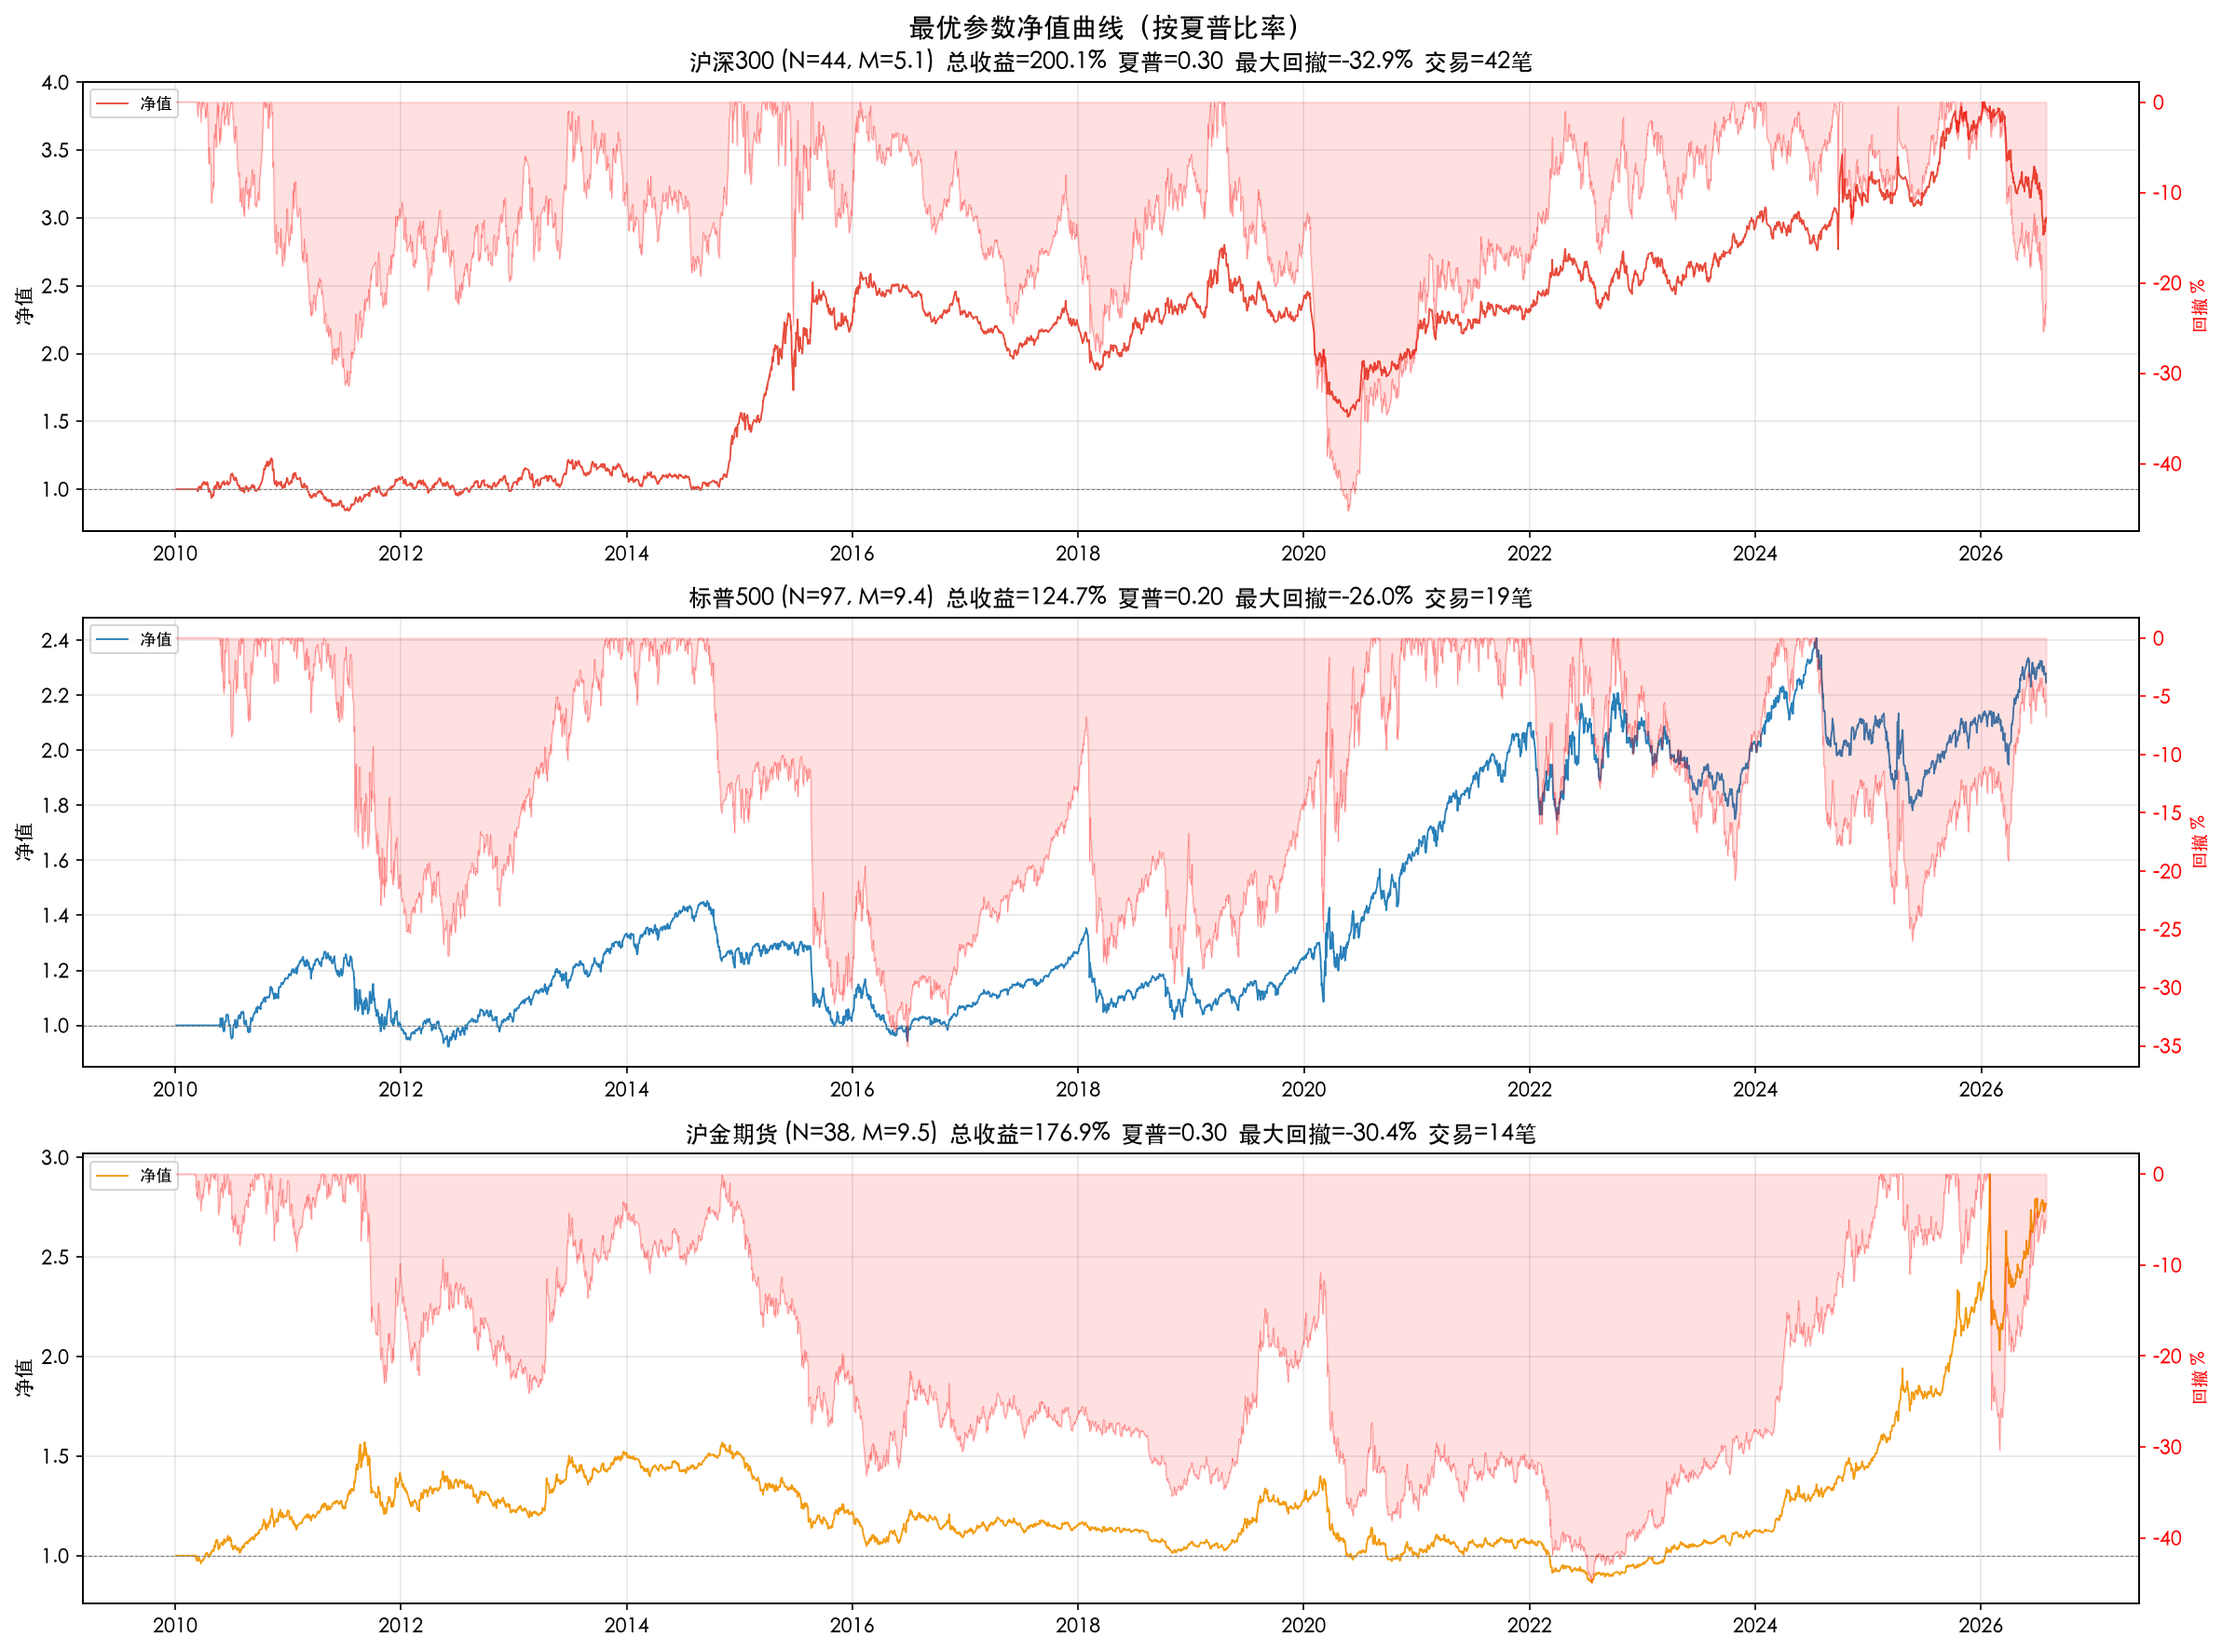
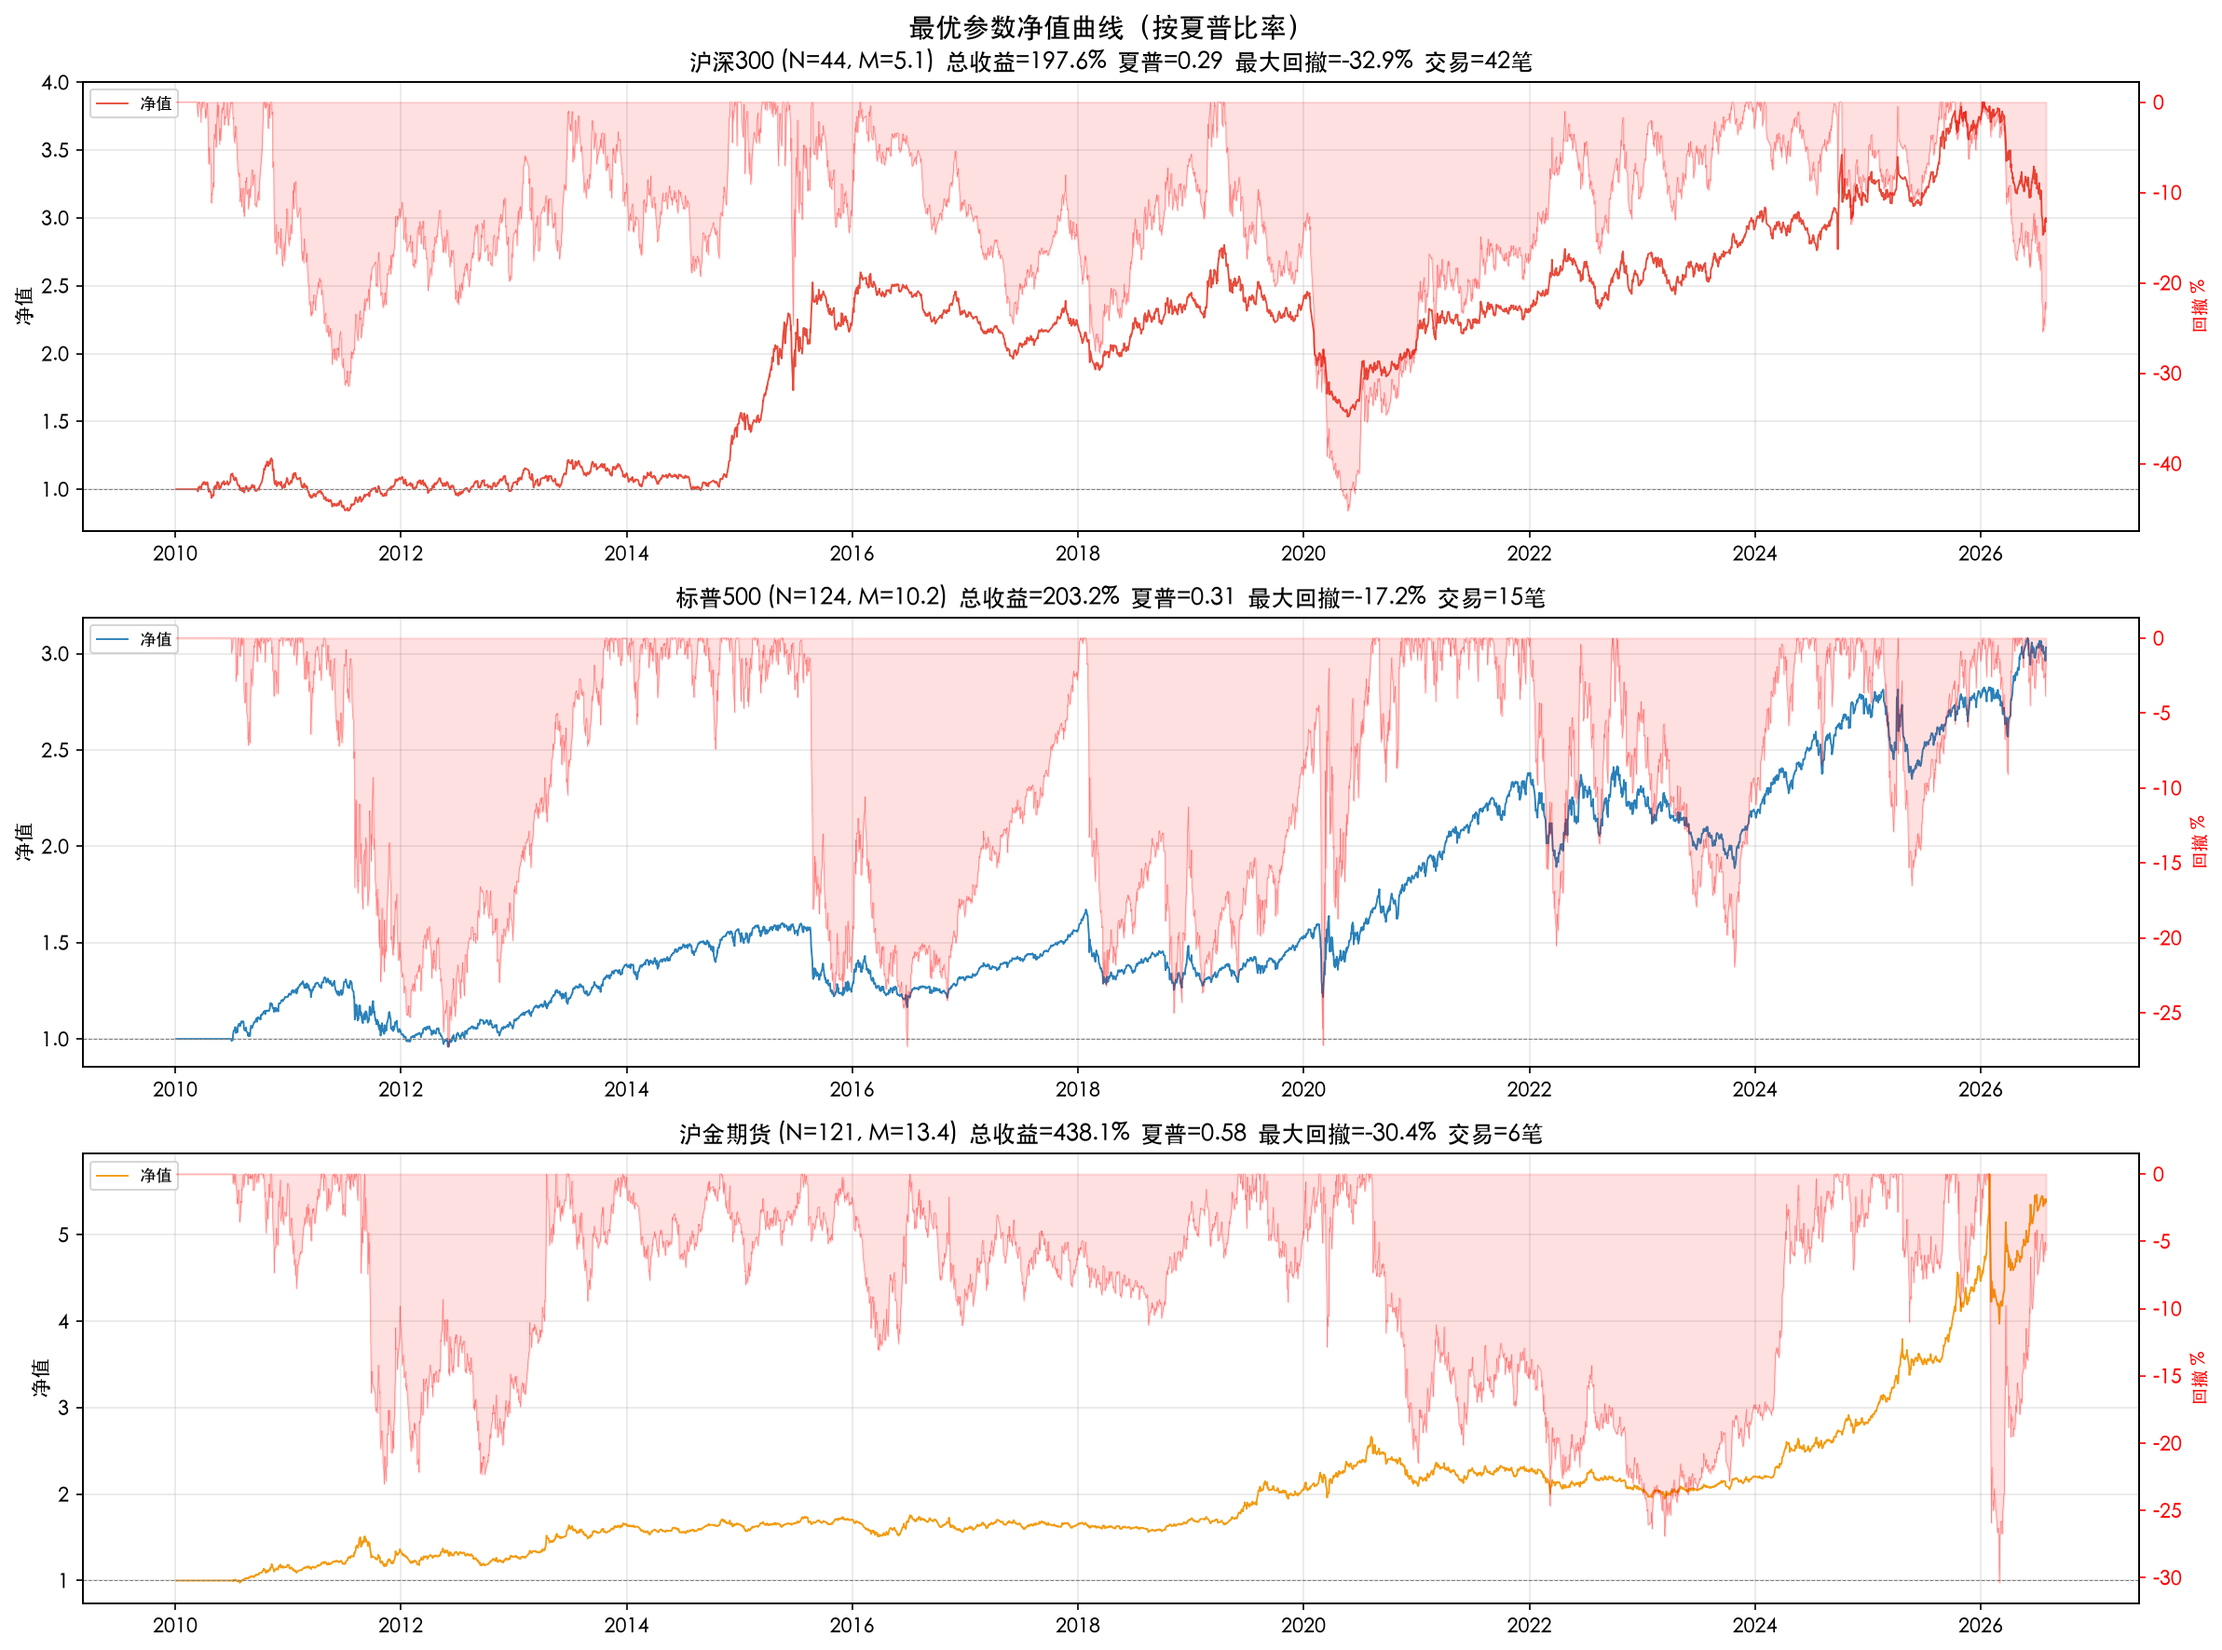
计算更新

diff --git a/optimize.py b/optimize.py
@@ -19,8 +19,8 @@ from tqdm import tqdm
 # ============================================================
 # 搜索范围
 # ============================================================
-PERIODS = list(range(1, 101))                     # 1 ~ 100
-MULTIPLIERS = [round(x * 0.1, 1) for x in range(1, 101)]  # 0.1 ~ 10.0
+PERIODS = list(range(1, 201))                     # 1 ~ 100
+MULTIPLIERS = [round(x * 0.1, 1) for x in range(1, 200)]  # 0.1 ~ 10.0
 
 DATA = {
     "沪深300": "沪深300_10年日线.parquet",
